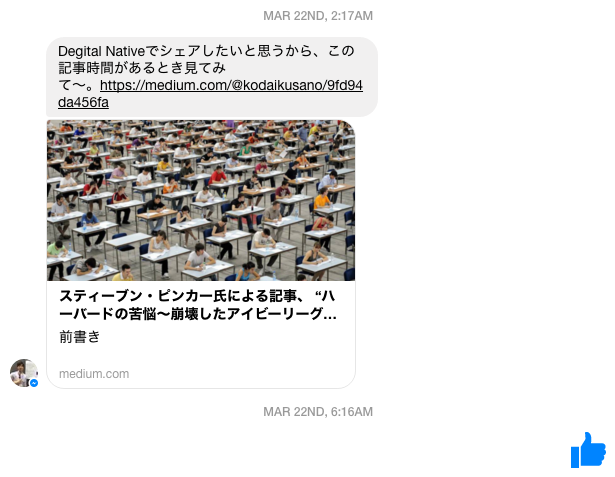
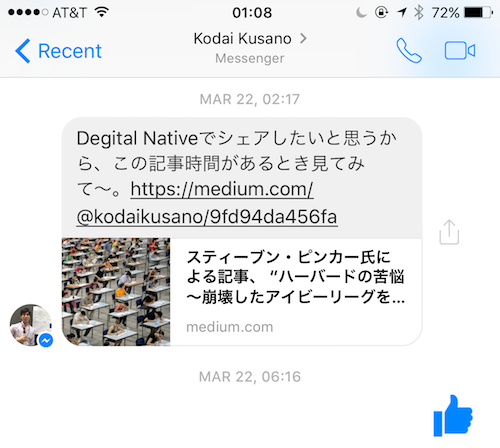
Improve screenshots

diff --git a/ja/ja-popular/_posts/2016-04-07-translate-first.md b/ja/ja-popular/_posts/2016-04-07-translate-first.md
@@ -32,6 +32,10 @@ title: 翻訳記事からブロガーライフをはじめよう
 
 ![](http://chibicode.com/assets/images/translate-first/convo3.png)
 
+![](http://chibicode.com/assets/images/translate-first/convo4.png)
+
+![](http://chibicode.com/assets/images/translate-first/convo5.png)
+
 送ったリンク:
 
 - [Noteに怯える書籍編集者たち](http://blogos.com/article/160551/)
